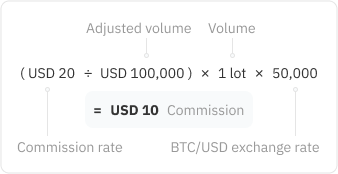
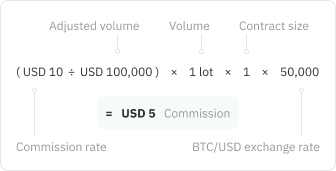
text: update text and images in calculator (#3092)

diff --git a/src/pages/partners/affiliate-ib/_deriv-ib-programme.tsx b/src/pages/partners/affiliate-ib/_deriv-ib-programme.tsx
@@ -427,7 +427,7 @@ const ib_dmt5_financial: DMT5Type = {
                 },
                 {
                     details: (
-                        <Localize translate_text="For cryptocurrency assets, a deal for 1 lot of BTC/USD (with a BTC to USD exchange rate of USD 50,000) will pay out USD 20 in commission based on the following formula:" />
+                        <Localize translate_text="For cryptocurrency assets, a deal for 1 lot of BTC/USD (with a BTC to USD exchange rate of USD 50,000) will pay out USD 5 in commission based on the following formula:" />
                     ),
                     icon: 'dmt5_financial_calculator_three',
                     iconAlt: <Localize translate_text="DMT5 Financial calculated thirth" />,
@@ -500,7 +500,7 @@ const ib_dmt5_financialSTP: DMT5Type = {
                 },
                 {
                     details: (
-                        <Localize translate_text="For cryptocurrency assets, a deal for 1 lot of BTC/USD (with a BTC to USD exchange rate of USD 50,000) will pay out USD 20 in commission based on the following formula:" />
+                        <Localize translate_text="For cryptocurrency assets, a deal for 1 lot of BTC/USD (with a BTC to USD exchange rate of USD 50,000) will pay out USD 5 in commission based on the following formula:" />
                     ),
                     icon: 'dmt5_financial_stp_calculator_two',
                     iconAlt: <Localize translate_text="DMT5 Financial STP calculated second" />,
